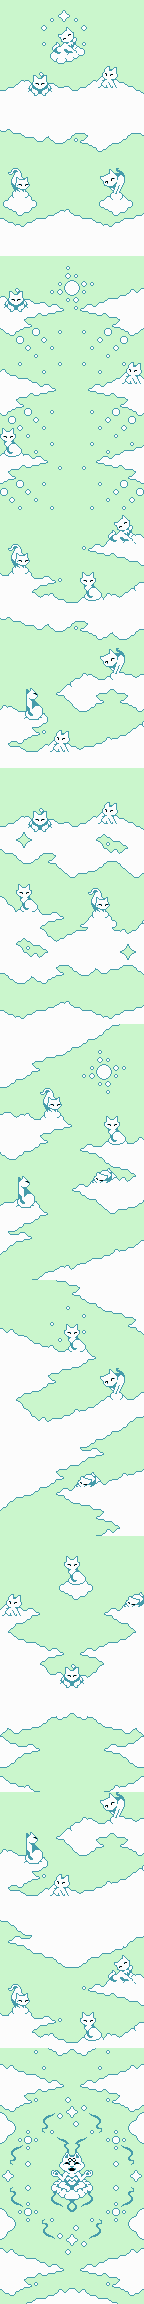
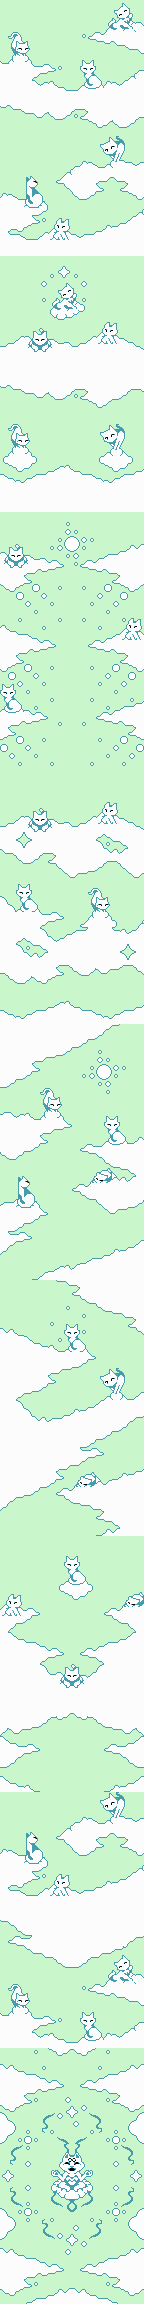
Implemented auto-scroll wave. Moved bkg5 palettes to separate object.

Changed region(s): [[0.0, 0.0, 1.0, 0.3438]]

diff --git a/background5.h b/background5.h
@@ -4,27 +4,16 @@
 #define background5_tiles_width 18U
 #define background5_tiles_height 32U
 #define background5_tiles_offset 35U
-#define background5_palette_data_length 1U
-#define background5_palette_offset 0U
+
 extern const unsigned char background5_data[];
 extern const unsigned char background5_tiles[];
-extern const unsigned char background5_palettes[];
 extern const unsigned char background5_tiles2[];
-extern const unsigned char background5_palettes2[];
 extern const unsigned char background5_tiles3[];
-extern const unsigned char background5_palettes3[];
 extern const unsigned char background5_tiles4[];
-extern const unsigned char background5_palettes4[];
 extern const unsigned char background5_tiles5[];
-extern const unsigned char background5_palettes5[];
 extern const unsigned char background5_tiles6[];
-extern const unsigned char background5_palettes6[];
 extern const unsigned char background5_tiles7[];
-extern const unsigned char background5_palettes7[];
 extern const unsigned char background5_tiles8[];
-extern const unsigned char background5_palettes8[];
 extern const unsigned char background5_tiles9[];
-extern const unsigned char background5_palettes9[];
-extern const unsigned int background5_palette_data[];
 
 #endif

diff --git a/game.c b/game.c
@@ -504,6 +504,9 @@ void updatePlayer() {
     if(player_x <= 22U) player_x = 23U;
     else if(player_x >= 154U) player_x = 153U;
 
+    // Don't underflow in auto scroll level
+    if(player_y <= 11U) player_y = 12U;
+
     // Check bounds
     if(player_y > SCREENHEIGHT+5U) {
         player_y = SCREENHEIGHT;
@@ -546,10 +549,15 @@ void updatePlayer() {
     }
 
     // Update scroll
-    scroll_y = 0U;
-    if(player_y < SCRLMGN) {
-        scroll_y = SCRLMGN - player_y;
-        player_y = SCRLMGN;
+    if(wave == WAVE_SPC_AUTOSCROLL) {
+        scroll_y = ticks & 1U;
+        player_y += scroll_y;
+    } else {
+        scroll_y = 0U;
+        if(player_y < SCRLMGN) {
+            scroll_y = SCRLMGN - player_y;
+            player_y = SCRLMGN;
+        }
     }
 }
 
@@ -799,6 +807,11 @@ void generateSpawnData() {
         case WAVE_SPC_GHOSTS:
             spawn_levels = spawn_level_gen;
             mymemset(spawn_levels, E_GHOST, 8U);
+            break;
+        case WAVE_SPC_AUTOSCROLL:
+            scrolled_length = 10U;
+            clock_interval = 8U;
+            spawn_levels = spawn_level_data + 32U;
             break;
         case 0U:
             spawn_levels = spawn_level_data + 8U;

diff --git a/background5.c b/background5.c
@@ -355,34 +355,4 @@ const unsigned char background5_tiles9[] = {
       3, 125, 123,  78,  79,  79,   6, 126,  77,  73,  35,  35,   3
 };
 
-const unsigned int background5_palette_data[] = {
-	32767, 26553, 22121,   0
-};
-const unsigned char background5_palettes[] = {
-	  0,   0, 255,   0,   0, 255,   0,   0,  66
-};
-const unsigned char background5_palettes2[] = {
-	  0,   0, 255,   0,   0, 255,   0,   0,  66
-};
-const unsigned char background5_palettes3[] = {
-	  0,   0, 255,   0,   0, 255,   0,   0,  66
-};
-const unsigned char background5_palettes4[] = {
-	  0,   0, 255,   0,   0, 255,   0,   0,  66
-};
-const unsigned char background5_palettes5[] = {
-	  0,   0, 255,   0,   0, 255,   0,   0,  66
-};
-const unsigned char background5_palettes6[] = {
-	  0,   0, 255,   0,   0, 255,   0,   0,  66
-};
-const unsigned char background5_palettes7[] = {
-	  0,   0, 255,   0,   0, 255,   0,   0,  66
-};
-const unsigned char background5_palettes8[] = {
-	  0,   0, 255,   0,   0, 255,   0,   0,  66
-};
-const unsigned char background5_palettes9[] = {
-	  0,   0, 255,   0,   0, 255,   0,   0,  66
-};
 

diff --git a/gamestate.c b/gamestate.c
@@ -10,6 +10,7 @@
 #include "background3.h"
 #include "background4.h"
 #include "background5.h"
+#include "background5_palettes.h"
 #include "pause_bg.h"
 #include "win1.h"
 #include "win1_dx.h"
@@ -308,6 +309,7 @@ void setIngameBackground(UBYTE level, UBYTE first_load, UBYTE pal_buffer) {
             data_length = background5_data_length;
             if(CGB_MODE) {
                 palette_data = background5_palette_data;
+                //if(i == 8U) palette_data += 8U;
                 palettes = background5_palettes;
                 palette_data_length = background5_palette_data_length;
             }

diff --git a/background5_palettes.h b/background5_palettes.h
@@ -1,0 +1,10 @@
+#ifndef BACKGROUND5_PALETTES_H
+#define BACKGROUND5_PALETTES_H
+
+#define background5_palette_data_length 1U
+#define background5_palette_offset 0U
+
+extern const unsigned int background5_palette_data[];
+extern const unsigned char background5_palettes[];
+
+#endif

diff --git a/background5_palettes.c b/background5_palettes.c
@@ -1,0 +1,9 @@
+const unsigned int background5_palette_data[] = {
+    32767, 26585, 22121,   0,
+    32767, 26430, 13621,   0
+};
+
+
+const unsigned char background5_palettes[] = {
+	  0,   0, 255,   0,   0, 255,   0,   0,  66
+};
